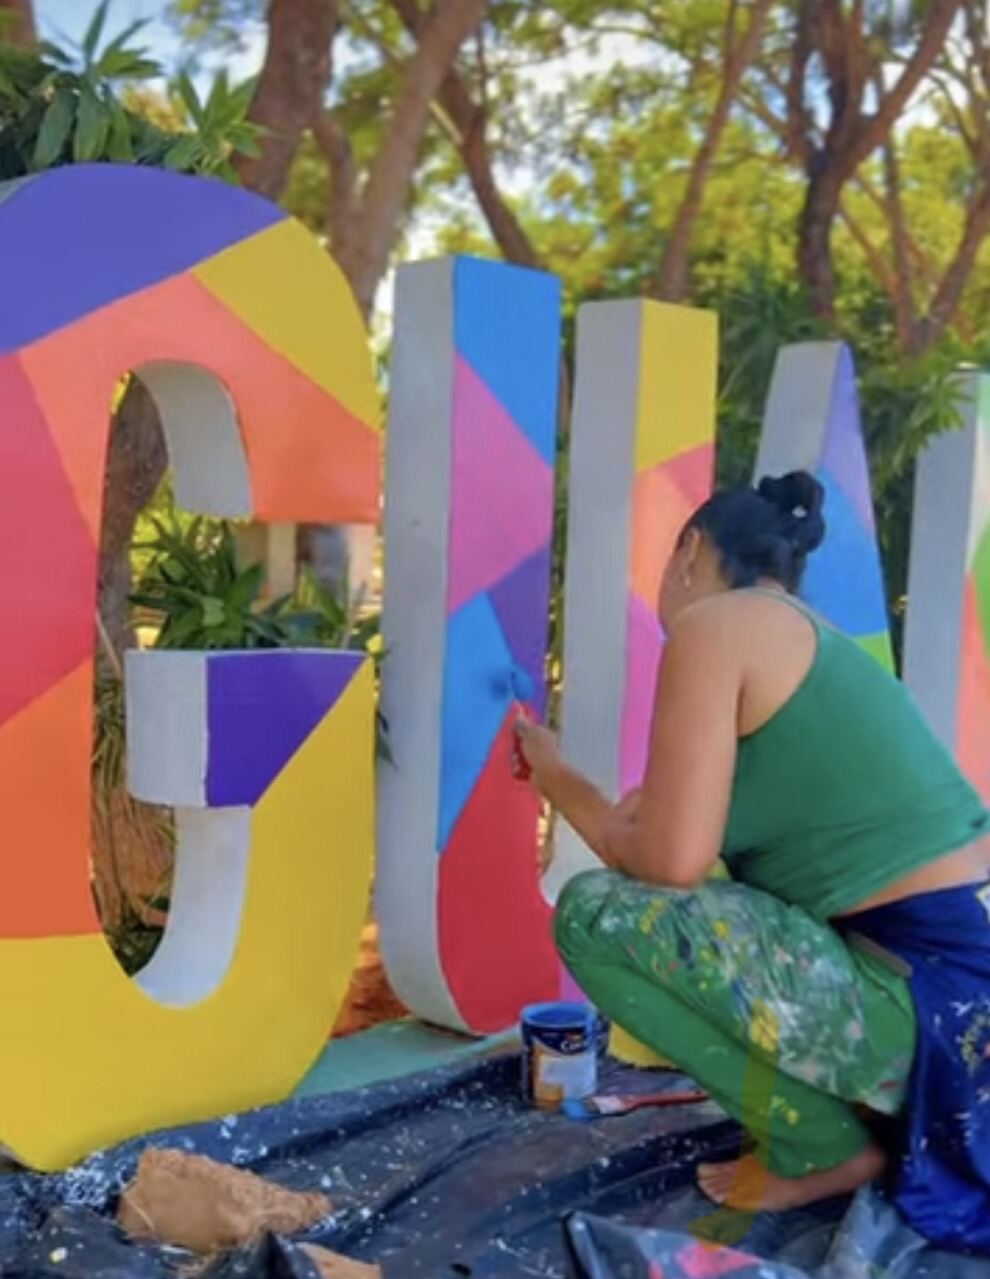
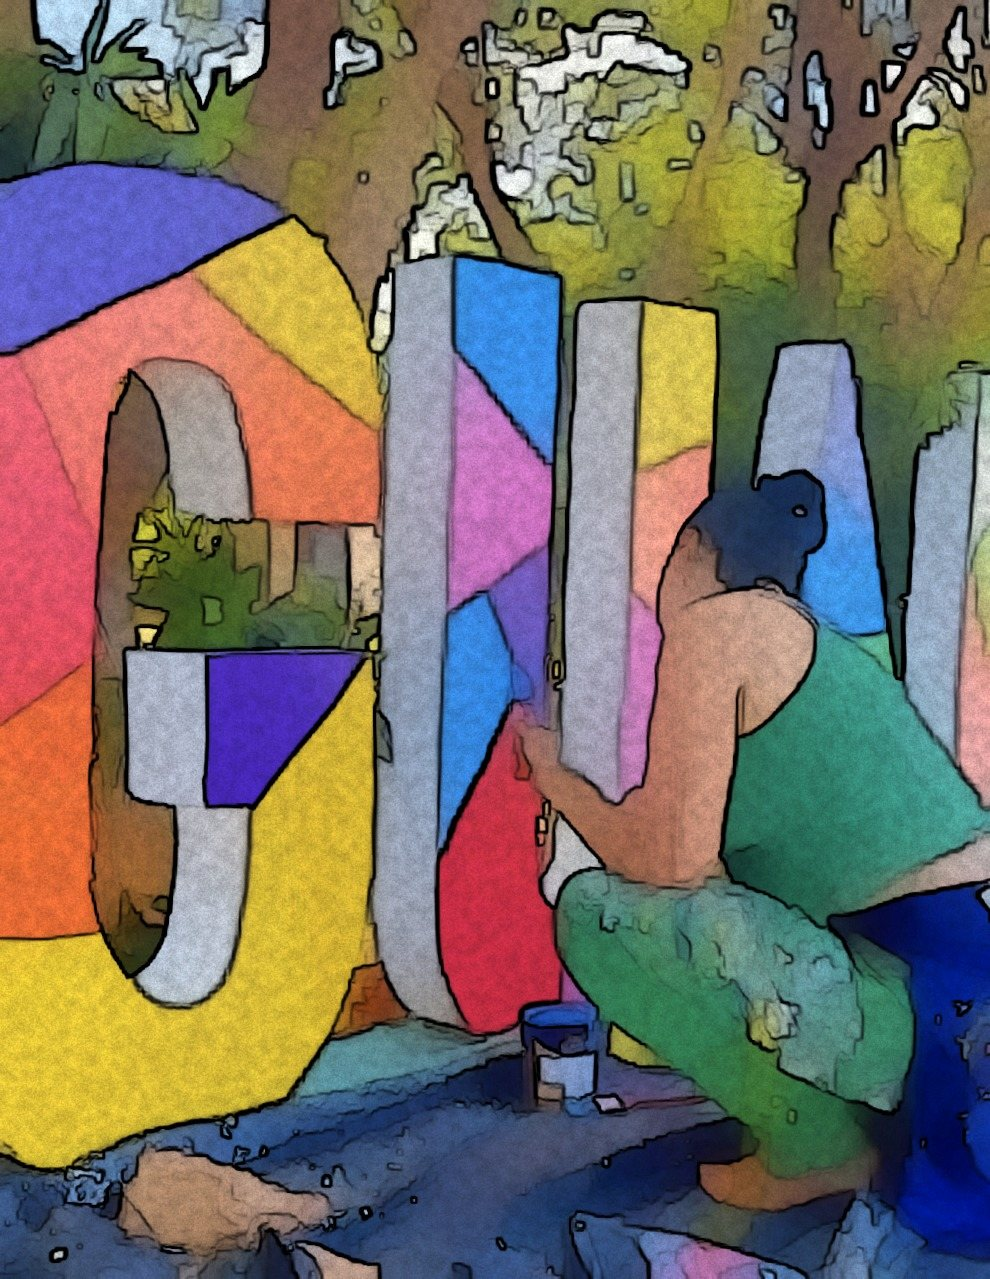
Use an illustrated hero image
The hero background becomes a stylised, poster-like version of the
opening photo: flattened colour regions and inked contours, produced from
the original with an edge-preserving filter.

The photo itself also appears as the first item of the "Arte em Parede"
gallery, which is a portfolio of real work, so it is kept unfiltered
there and split into its own file: the original moves to
mural-instalacao-letras.jpg alongside the other gallery murals, and
hero-instalacao-letras.jpg now holds the illustrated version used by the
hero and the social preview. The hero alt text says it is an
illustration, since a described photograph and a described drawing are
not the same thing to someone using a screen reader.

Claude-Session: https://claude.ai/code/session_01FwNRSeigrtWbzg52fZ5nYR

diff --git a/index.html b/index.html
@@ -646,7 +646,7 @@
 </header>
 
 <section class="hero">
-  <img class="bg" src="assets/img/hero-instalacao-letras.jpg" alt="Lete Diedrichs pintando uma instalação de letras coloridas ao ar livre">
+  <img class="bg" src="assets/img/hero-instalacao-letras.jpg" alt="Ilustração, a partir de uma foto, de Lete Diedrichs pintando uma instalação de letras coloridas ao ar livre">
   <div class="hero-content wrap">
     <div class="hero-eyebrow">Artista Plástica &amp; Muralista</div>
     <h1>Lete<br>Diedrichs</h1>
@@ -708,7 +708,7 @@
       <p>De letreiros escultóricos a fachadas pintadas à mão, cada parede vira uma composição só sua — pensada para o espaço, a luz e quem vai passar por ali todos os dias.</p>
     </div>
     <div class="gal-grid">
-      <figure><img loading="lazy" decoding="async" src="assets/img/hero-instalacao-letras.jpg" alt="Lete pintando uma grande instalação de letras em cores geométricas vibrantes"><figcaption><span>Instalação</span>Letreiro escultórico em geometria colorida</figcaption></figure>
+      <figure><img loading="lazy" decoding="async" src="assets/img/mural-instalacao-letras.jpg" alt="Lete pintando uma grande instalação de letras em cores geométricas vibrantes"><figcaption><span>Instalação</span>Letreiro escultórico em geometria colorida</figcaption></figure>
       <figure><img loading="lazy" decoding="async" src="assets/img/mural-fachada-trofeu.jpg" alt="Lete pintando um mural com uma taça de troféu dourada em fachada de loja"><figcaption><span>Fachada</span>Mural comemorativo em loja</figcaption></figure>
       <figure><img loading="lazy" decoding="async" src="assets/img/mural-trompe-loeil-italiana.jpg" alt="Mural em trompe l'oeil retratando uma fachada italiana com pizzaria e varanda florida"><figcaption><span>Trompe-l'œil</span>Fachada italiana pintada em parede real</figcaption></figure>
     </div>
